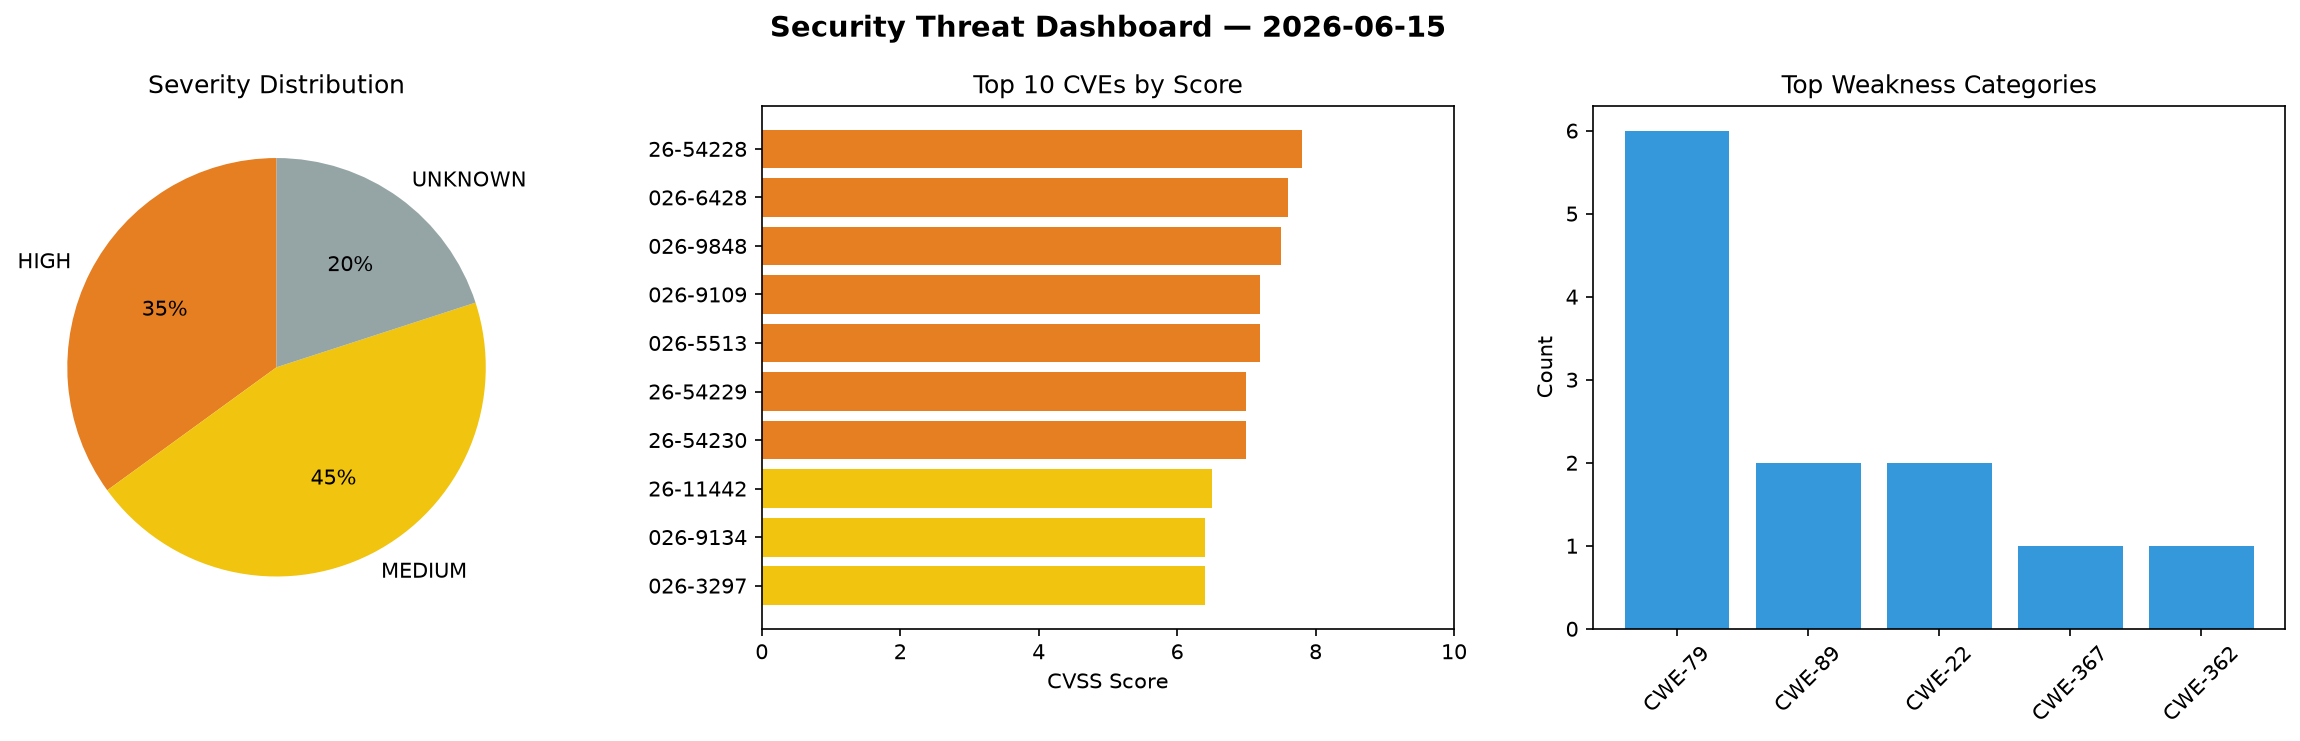
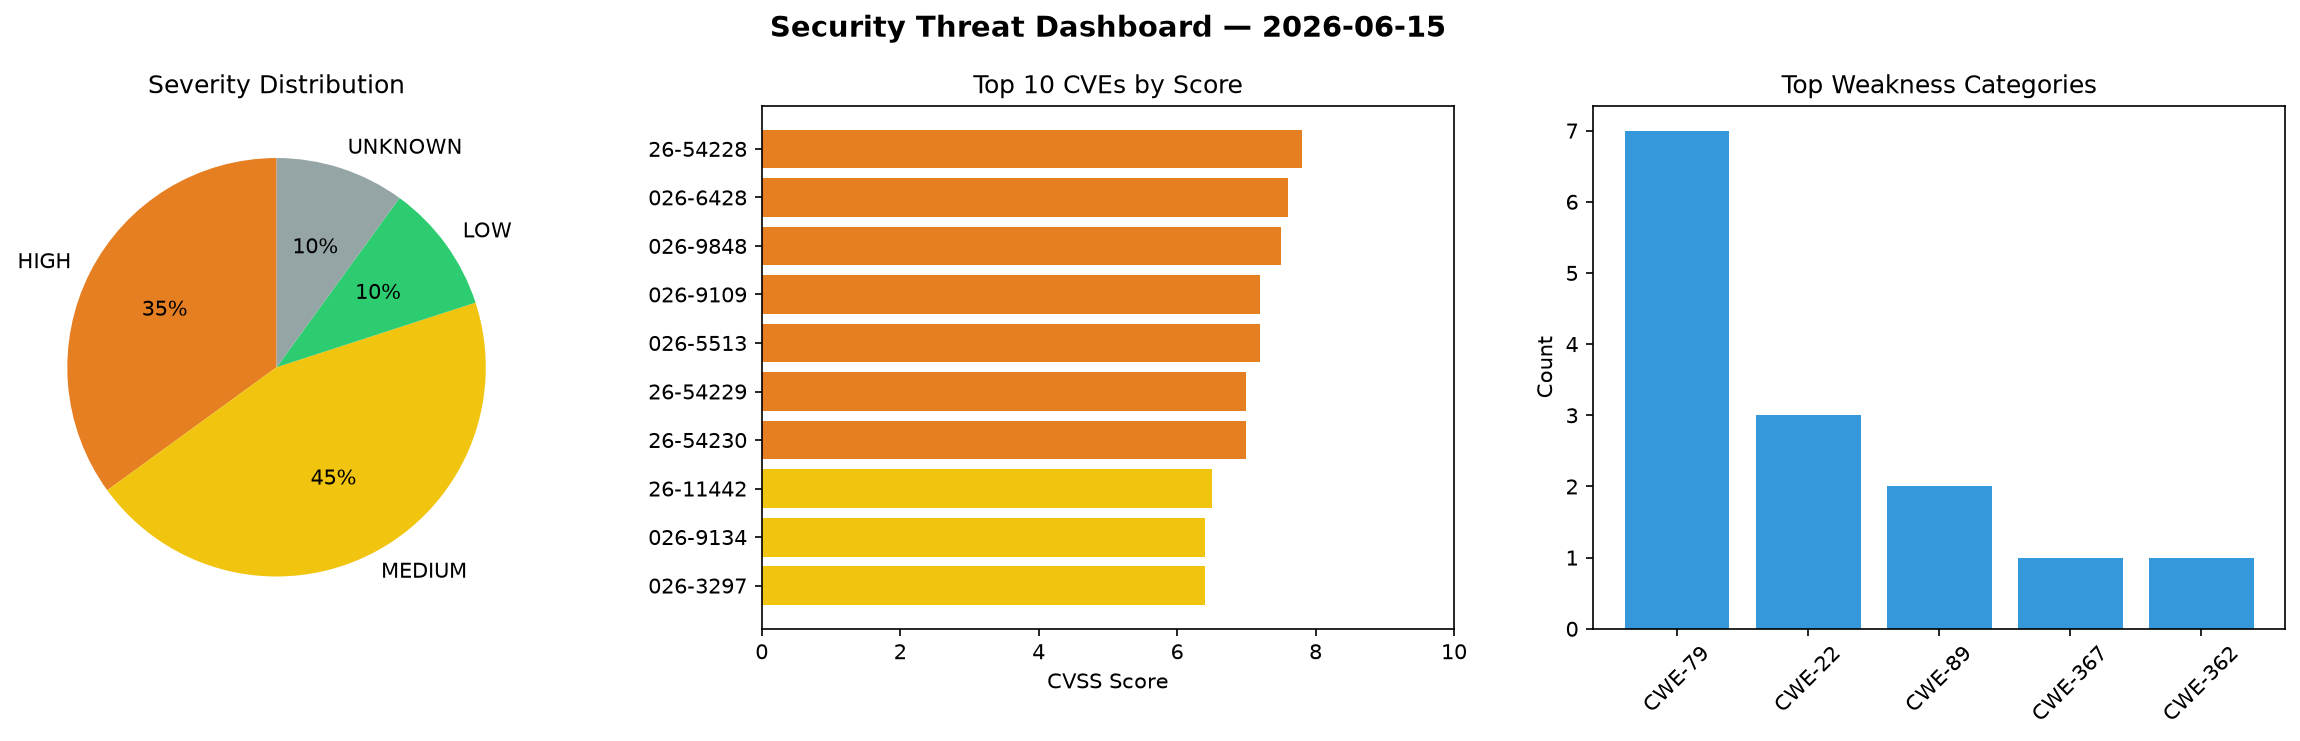
daily-experiments: security scan 2026-06-15T18:48

diff --git a/logs/2026-06-15.md b/logs/2026-06-15.md
@@ -1,6 +1,6 @@
 # Security Scan Report — 2026-06-15
 
-**Scan ID:** `73fdd46ec6` | **CVEs:** 20 | **Threat Index:** 252.5
+**Scan ID:** `2170e542f2` | **CVEs:** 20 | **Threat Index:** 259.4
 
 ![Dashboard](2026-06-15_dashboard.png)
 
@@ -10,27 +10,28 @@
 
 | Metric | Value |
 |--------|-------|
-| Threat Index | 252.5 |
+| Threat Index | 259.4 |
 | Critical CVEs | 0 |
 | HIGH | 7 |
 | MEDIUM | 9 |
-| UNKNOWN | 4 |
+| LOW | 2 |
+| UNKNOWN | 2 |
 
 ## Delta vs Yesterday
 
 | Metric | Today | Yesterday | Change |
 |--------|-------|-----------|--------|
 | total_cves | 20 | 20 | ➡️ 0.0% |
-| threat_index | 252.5 | 414.8 | 📉 -39.1% |
+| threat_index | 259.4 | 414.8 | 📉 -37.5% |
 | critical_count | 0 | 5 | 📉 -100.0% |
 
 ## Top Weakness Categories
 
 | CWE | Count |
 |-----|-------|
-| CWE-79 | 6 |
+| CWE-79 | 7 |
+| CWE-22 | 3 |
 | CWE-89 | 2 |
-| CWE-22 | 2 |
 | CWE-367 | 1 |
 | CWE-362 | 1 |
 